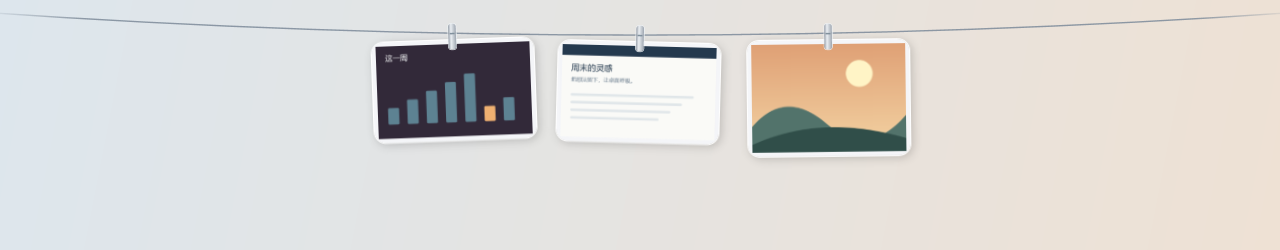
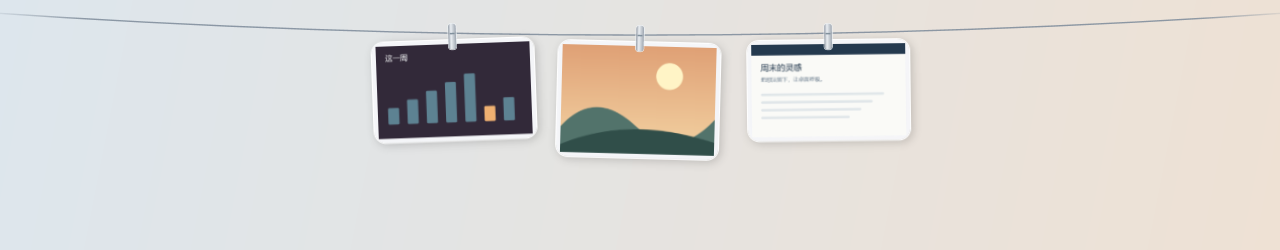
fix: insert new photos on the left and evict the rightmost

Changed region(s): [[0.4375, 0.168, 0.7188, 0.644]]

diff --git a/src/SelfTest.cs b/src/SelfTest.cs
@@ -102,26 +102,41 @@ namespace ShaiTu {
                 Check(!pixelStore.ImportImage(pixel24), "Equivalent Snipaste/clipboard pixels deduplicate across bitmap formats and DPI");
                 string original = Path.Combine(sandbox, "original.png"); WritePng(samples[1], original);
                 Check(store.ImportFile(original), "File import");
-                Photo p = store.Items.Last(); var data = LineWindow.DragData(p);
+                Photo p = store.Items.First(); var data = LineWindow.DragData(p);
                 Check(data.ContainsFileDropList() && data.GetFileDropList()[0] == p.File && data.ContainsImage(), "Drag payload contains file and full bitmap");
                 var loaded = new Store(store.Root);
-                Check(loaded.Items.Count == 2 && loaded.Items[1].Width == 600, "Snapshots restored after restart");
+                Check(loaded.Items.Count == 2 && loaded.Items[0].Width == 600, "Snapshots restored after restart");
+                Check(loaded.Items[0].Hash == Store.ImageHash(samples[1]) && loaded.Items[1].Hash == Store.ImageHash(samples[0]),
+                    "New photos enter at the left and push earlier photos right; the order survives restart");
                 Photo left = loaded.Items[0], right = loaded.Items[1];
                 Check(loaded.Swap(left, right) && loaded.Items[0] == right && loaded.Items[1] == left, "Drag reorder swaps two positions");
                 Check(Path.GetFileName(new Store(loaded.Root).Items[0].File) == Path.GetFileName(right.File), "Swapped order persists across restart");
                 Check(!loaded.Swap(right, right), "Dropping a photo onto itself changes nothing");
                 loaded.Swap(right, left);
-                loaded.Remove(loaded.Items.Last());
+                loaded.Remove(loaded.Items.First());
                 Check(File.Exists(original) && !File.Exists(p.File) && new Store(store.Root).Items.Count == 1, "Removing snapshot preserves original and persists");
                 loaded.Clear();
-                for (int i = 0; i < 10; i++) loaded.ImportImage(DrawSample(i + 3));
-                Check(loaded.Items.Count == 8 && Directory.GetFiles(loaded.Cache, "*.png").Length == 8, "Capacity evicts oldest snapshots and bounds disk cache");
+                var capacityPhotos = new List<Photo>();
+                for (int i = 0; i < 10; i++) { loaded.ImportImage(DrawSample(i + 3)); capacityPhotos.Add(loaded.Items[0]); }
+                Check(loaded.Items.Count == 8 && Directory.GetFiles(loaded.Cache, "*.png").Length == 8
+                    && loaded.Items.SequenceEqual(capacityPhotos.Skip(2).Reverse())
+                    && !File.Exists(capacityPhotos[0].File) && !File.Exists(capacityPhotos[1].File)
+                    && capacityPhotos.Skip(2).All(photo => File.Exists(photo.File))
+                    && new Store(loaded.Root).Items.Select(photo => photo.File).SequenceEqual(loaded.Items.Select(photo => photo.File)),
+                    "Overflow deletes the rightmost oldest photos, retains eight newest in reverse arrival order and persists that order");
+                Photo reorderedRight = loaded.Items[0], retainedOldest = loaded.Items.Last();
+                loaded.Swap(reorderedRight, retainedOldest); loaded.ImportImage(DrawSample(97));
+                Check(!File.Exists(reorderedRight.File) && File.Exists(retainedOldest.File) && loaded.Items[1] == retainedOldest
+                    && loaded.Items.Count == 8 && Directory.GetFiles(loaded.Cache, "*.png").Length == 8,
+                    "After a manual swap, overflow deletes the current rightmost photo and preserves the chosen left-side photo");
                 string first = loaded.Items[0].File;
                 using (var lockFile = new FileStream(Path.Combine(loaded.Root, "settings.json"), FileMode.Open, FileAccess.Read, FileShare.None)) {
                     bool failed = false; try { loaded.Remove(loaded.Items[0]); } catch (IOException) { failed = true; }
                     Check(failed && loaded.Items.Count == 8 && File.Exists(first), "Failed persistence rolls back removal");
+                    var importBefore = loaded.Items.ToArray();
                     failed = false; try { loaded.ImportImage(DrawSample(98)); } catch (IOException) { failed = true; }
-                    Check(failed && loaded.Items.Count == 8 && Directory.GetFiles(loaded.Cache, "*.png").Length == 8, "Failed persistence rolls back import and removes orphan");
+                    Check(failed && loaded.Items.SequenceEqual(importBefore) && importBefore.All(photo => File.Exists(photo.File))
+                        && Directory.GetFiles(loaded.Cache, "*.png").Length == 8, "Failed persistence restores order and the rightmost photo while removing the new orphan");
                 }
                 Check(!Store.IsOwnedName("..\\test.png") && !Store.IsOwnedName("photo.png") && Store.IsOwnedName(Guid.NewGuid().ToString("N") + ".png"), "Only owned GUID filenames are eligible for cleanup");
                 using (var lockFile = new FileStream(Path.Combine(loaded.Root, "settings.json"), FileMode.Open, FileAccess.Read, FileShare.None)) {

diff --git a/src/Program.cs b/src/Program.cs
@@ -10,7 +10,7 @@ using Microsoft.Win32;
 using Forms = System.Windows.Forms;
 
 [assembly: System.Reflection.AssemblyTitle("晒图 · ShaiTu")]
-[assembly: System.Reflection.AssemblyVersion("0.5.8.0")]
+[assembly: System.Reflection.AssemblyVersion("0.5.9.0")]
 
 namespace ShaiTu {
     public sealed class Program {
@@ -336,7 +336,7 @@ namespace ShaiTu {
             }));
             menu.Items.Add(Item("关于晒图", delegate {
                 line.Busy = true;
-                MessageBox.Show("晒图 0.5.8\n\n个人截图暂存工具", "关于晒图");
+                MessageBox.Show("晒图 0.5.9\n\n个人截图暂存工具", "关于晒图");
                 line.Busy = false;
             }));
             menu.Items.Add(new Forms.ToolStripSeparator()); menu.Items.Add(Item("清理截图并退出", ExitFromTray));

diff --git a/src/Store.cs b/src/Store.cs
@@ -111,8 +111,8 @@ namespace ShaiTu {
             try {
                 File.WriteAllBytes(path, bytes);
                 Photo photo = LoadPhoto(path); photo.Hash = hash;
-                Items.Add(photo);
-                while (Items.Count > Capacity) Items.RemoveAt(0);
+                Items.Insert(0, photo);
+                while (Items.Count > Capacity) Items.RemoveAt(Items.Count - 1);
                 Save();
             } catch {
                 Items.Clear(); Items.AddRange(previous); TryDelete(path); throw;

diff --git a/README.md b/README.md
@@ -4,105 +4,77 @@
 
 # 晒图 · ShaiTu
 
-把截图挂到桌面的晾衣绳上，随手复制、查看和拖动排序。支持 Snipaste 钉图联动，也可使用 Windows 截图。Snipaste 的桌面贴图同时保留，方便自由拖动做对比。
+把截图挂在桌面晾衣绳上，随手复制、查看和拖动排序。支持 Snipaste 钉图联动，也能使用 Windows 自带的截图工具。
 
-**Windows 10 / 11 · .NET Framework 4.8 · 当前版本 0.5.8**
+**Windows 10 / 11 · .NET Framework 4.8 · 便携版，无需安装**
 
 ![晒图界面：三张示例图片由夹子挂在桌面晾衣绳上](./assets/readme/interface.png)
 
-*程序实际渲染的界面，使用内置示例图片。*
+*程序实际渲染的界面，使用示例图片。*
 
-## 从第一张截图开始
+## 开始使用
 
-1. 从 [Releases 下载便携版 ZIP](https://github.com/weidaozhong/ShaiTu/releases/latest)，完整解压到固定文件夹，然后启动 `ShaiTu.exe`。保留同目录的 `ShaiTu.exe.config`，程序先在托盘运行。
-2. 启动 Snipaste，使用你已经设置好的截图快捷键。
-3. 完成截图或编辑后，选择**钉在桌面**。图片会复制到晾衣绳，保存成功后展开确认至少 5 秒。
+1. [下载最新便携版 ZIP](https://github.com/weidaozhong/ShaiTu/releases/latest)，完整解压到固定文件夹。
+2. 运行 `ShaiTu.exe`，保留同目录的 `ShaiTu.exe.config`。程序在任务栏托盘运行，启动时不弹出晾衣绳。
+3. 截一张图，或在托盘中选择“添加图片”。图片保存后，晾衣绳自动展开确认至少 5 秒。
 
-直接在 Snipaste 中复制图片不会自动上绳；先编辑再钉图，只接收编辑后的最终版本。托盘里的“Snipaste 截图”也调用 Snipaste。
+**使用 Snipaste：** 使用已经设置好的截图快捷键，完成截图或编辑后选择“钉在桌面”。晾衣绳只接收最终钉图，直接复制不上绳，编辑前的原图也不会额外加入。Snipaste 的桌面贴图同时保留，可自由拖动、缩放和对比。
 
-**没有 Snipaste：** 托盘中点击“Windows 截图”，选取区域后自动挂上绳并展开确认。此入口调用系统的 **Win + Shift + S**，无需开启长期剪贴板监听；仅接收本次 Windows 截图工具生成的图片。按 Esc 取消，未完成的接收在 2 分钟后结束。需要 Windows 自带的截图工具可用，且启用自动复制到剪贴板；关闭了自动复制时，在截图工具中点击复制即可接收。
+**使用 Windows 截图：** Snipaste 未运行时，托盘截图入口自动切为“Windows 截图”。点击后选取区域，结果自动上绳，无需开启长期剪贴板接收。需要系统截图工具可用并将结果复制到剪贴板；若关闭了自动复制，在截图工具中点击复制即可。Esc 取消，未完成的接收在 2 分钟后结束。
+
+Snipaste 启动后，托盘菜单切回它的截图入口，并读取当前快捷键设置。自动检测不到贴图目录时，可在托盘中选择 Snipaste 安装目录或 `history` 目录。
 
 ## 图片怎么用
 
 | 操作 | 结果 |
 | --- | --- |
-| 左键单击图片 | 复制图片，显示“已复制”提示 |
-| 右键单击图片 | 查看大图 |
+| 左键单击 | 复制图片，并显示“已复制” |
+| 右键单击 | 查看大图 |
 | Shift + 右键 | 打开更多操作菜单；左键点击菜单外关闭 |
 | 拖到另一张图片上 | 两张图片交换位置 |
-| 拖到挂绳区域外松手 | 取下图片并删除晒图的对应缓存 |
+| 拖出挂绳区域后松手 | 取下图片并清理对应缓存 |
 | 拖拽时按 Esc | 取消拖拽，图片保留 |
-| 上下拖动绳子 | 调整整排高度，松手后记住位置 |
-| 长按图片 | 用画图编辑晒图缓存 |
+| 上下拖动绳子 | 调整高度，松手后记住位置 |
+| 长按图片 | 用画图编辑 |
 | 菜单 → 另存为 | 保存一份需要长期保留的图片 |
 
-最多暂存 **8 张**，满了会淘汰最左边的一张。拖给其他应用后，或绳外松手处没有接收目标，同样会清理绳上的对应缓存。
+## 排列与清理
 
-## 什么时候展开和收起
+新图片从**左侧**挂入，原有图片向右移动。最多暂存 **8 张**，满了再加入时，清理**当前最右侧**的一张及其晒图缓存。
 
-- **没有图片：** 绳子、提示和右侧小把手全部隐藏。
-- **自动收起后：** 屏幕右侧的小把手随绳子高度定位；单击立即展开，悬停 0.3 秒展开。
-- **正在取用：** 鼠标停在图片、绳子及附近缓冲区域时保持显示；离开 1.2 秒再收起。拖拽、调高度和打开菜单时保持显示。
-- **主动展开：** 按快捷键或从托盘展开后持续显示，再次主动收起才隐藏。
+没有手动交换位置时，最右侧就是最早加入的图片；拖拽排序会改变清理顺序。
 
-默认展开 / 收起键是 **Ctrl + Alt + T**。托盘 → **设置展开 / 收起快捷键**可改成单键或组合键，不会更改 Snipaste 的截图键。
+拖给其他应用后，或在绳外没有接收目标的区域松手，同样会清理绳上的对应缓存。清空晾衣绳或从托盘退出会清理全部暂存图片；强制结束进程不会执行退出清理。
 
-## 桌面贴图与晾衣绳各自保留
+这些操作只清理晒图缓存，保留 Snipaste 桌面贴图、原文件和你另存的图片。需要长期保留的图片，请使用“另存为”。
 
-Snipaste 桌面贴图可继续自由拖动、缩放和对比；晾衣绳保存的是独立副本。
+## 展开与收起
 
-| 操作 | 晾衣绳缓存 |
-| --- | --- |
-| 从绳上取下一张 | 删除对应图片 |
-| 清空晾衣绳 / 从托盘退出 | 清空 |
-| 强制结束晒图进程 | 不执行退出清理 |
+- **没有图片：** 绳子和右侧小把手都隐藏。
+- **自动收起后：** 单击屏幕右侧小把手即可展开，悬停 0.3 秒也可展开。
+- **取用图片时：** 鼠标留在图片、绳子及附近缓冲区域内保持显示，离开 1.2 秒后收起。拖拽、调高度和打开菜单时保持显示。
+- **主动展开后：** 通过快捷键或托盘展开会持续显示，再次主动收起才隐藏。
 
-上述操作均保留 Snipaste 贴图、原文件以及你另存的图片。Snipaste 的贴图和原文件由 Snipaste 自己管理。
-
-已取下的图片，在当前连接期间不会因为同一贴图重复写入相同像素而重新挂回绳上。
+默认展开 / 收起键是 **Ctrl + Alt + T**，可在托盘中改为单键或组合键。它与截图快捷键分别设置。
 
 ## 托盘设置
 
-- **开机启动：** 登录 Windows 后延迟 15 秒运行，先保持隐藏。手动打开不延迟；关闭开关即可取消自启动。
-- **添加图片：** 手动把已有图片挂上绳。
-- **接收剪贴板图片 / 监听文件夹：** 可选入口，默认以 Snipaste 钉图为主。Snipaste 的直接复制动作仍不自动接收。
-- **选择 Snipaste 目录：** 自动检测失败时，选择安装目录或 `history` 目录。
+- **开机启动：** 登录 Windows 后延迟 15 秒运行，先保持隐藏。移动程序后，手动运行一次以更新启动路径。
+- **接收剪贴板图片：** 默认关闭，可开启以接收其他应用复制的图片；Snipaste 的直接复制仍不上绳。
+- **监听文件夹：** 自动接收所选文件夹中新生成的图片。
+- **清空晾衣绳 / 清理截图并退出：** 清理暂存图片，保留高度、快捷键等设置。
 
-自动接收依赖 Snipaste 写出的贴图 PNG 文件。程序只读取最终贴图，不导入 `.sp1` 截图历史，也不会关闭或隐藏 Snipaste 贴图。
-
-## 换一台电脑使用
-
-便携包不包含原电脑的个人设置、Snipaste 配置和截图缓存。新电脑首次运行使用默认设置；Snipaste 的截图快捷键由那台电脑的 Snipaste 自己管理，晒图只读取并显示，不修改它。
-
-启动 Snipaste 后，晒图会从正在运行的程序位置和常见用户目录自动检测 `history`。特殊安装位置或自定义数据目录检测失败时，在托盘中选择 Snipaste 安装目录或 `history`，也可恢复自动检测。
-
-没有 Snipaste 或尚未启动它时，托盘截图入口自动切为“Windows 截图”。Snipaste 启动后，再次打开托盘菜单会切回 Snipaste，使用当地设置好的截图键，不修改配置。
-
-还可通过“添加图片”导入文件，开启“接收剪贴板图片”接收其他应用复制的图片，或配置监听文件夹。复制、预览、排序、另存、自启动和缓存清理均不依赖 Snipaste。Windows 截图后备入口使用系统组件；如果该组件被卸载或快捷键被其他工具替换，可继续手动添加图片。
+暂存图片和设置位于 `%LOCALAPPDATA%\ShaiTu`。没有截图工具时，仍可使用“添加图片”、剪贴板接收或监听文件夹，正常复制、查看、排序和另存。
 
 <details>
-<summary><strong>缓存位置与自启动细节</strong></summary>
+<summary><strong>从源码构建</strong></summary>
 
-截图暂存与设置位于 `%LOCALAPPDATA%\ShaiTu`。`captures.log` 记录新增图片的来源、尺寸和缓存文件名，随清空或退出删除。
-
-自启动使用当前用户启动文件夹中的 `ShaiTu.lnk`。旧版已经开启的注册表启动项会迁移，避免重复启动；重新开启开关会修复 exe 路径。开关也识别 Windows 的禁用状态。
-
-移动程序后，手动运行一次以更新已启用的自启动路径。程序已在运行时，重复的自动启动会静默退出。
-
-</details>
-
-## 从源码构建
-
-项目使用 C#、WPF 和 .NET Framework 4.8。`src` 为源码，`dist` 为当前程序，`build.ps1` 为构建脚本。
-
-源码仓库不包含 exe；本地构建后会生成 `dist/ShaiTu.exe`。
+项目使用 C#、WPF 和 .NET Framework 4.8。源码仓库不包含 exe，运行以下命令会生成 `dist/ShaiTu.exe`：
 
 ```powershell
 powershell -NoProfile -ExecutionPolicy Bypass -File .\build.ps1
 ```
 
-加 `-Test` 可运行自动检查。
+加 `-Test` 可运行自动检查。使用 `.\scripts\package-release.ps1 -Version 0.5.9` 打包便携版并生成 SHA256 校验文件。推送版本标签会触发 [Windows 自动构建与发布](https://github.com/weidaozhong/ShaiTu/actions)。
 
-`.\scripts\package-release.ps1 -Version 0.5.8` 将构建结果打包为便携版 ZIP，并生成 SHA256 校验文件。推送 `v*` 标签会触发 [Windows 构建及发布](https://github.com/weidaozhong/ShaiTu/actions)，也可用现有标签手动触发。
-
-[查看验证记录](./src/VALIDATION.md)：当前 101 项自动检查及原生启动检查。真实启动快捷方式已验证；下一次 Windows 登录触发、Windows 截图交互、实际跨应用拖放与多屏混合 DPI 仍需使用验证。
+</details>

diff --git a/src/VALIDATION.md b/src/VALIDATION.md
@@ -1,5 +1,7 @@
 # 验证记录
 
+2026-10-11，0.5.9。103 项自动检查通过。新增图片在列表左侧插入，容量超限清理当前最右侧图片；覆盖无调序时最早图淘汰、调序后按当前位置淘汰、顺序重启持久化，以及保存失败时保留原有顺序和最右侧缓存。加载既有设置保留用户已保存的排列，不反转历史位置。
+
 首次发布检查补充：自启动改用原生 Unicode Shell 接口，保留中文、空格路径和路径迁移测试。Windows 截图后备入口新增 12 项检查，覆盖请求之外不接收、忽略旧剪贴板和晒图自身复制、排除 Snipaste 及无关来源、非图片不消费请求、保存失败可重试、仅成功接收一次、取消、超时、启动失败回滚以及 32/64 位输入结构布局，共 101 项。
 
 Windows 截图后备入口通过系统 Win + Shift + S 调用截图工具，并临时接收 Windows 截图进程产生的图片，不修改永久剪贴板开关。自动检查使用隔离样例，不向用户桌面发送截图按键、不读写用户剪贴板。Windows 10/11 的实际选区及截图工具配置差异仍需交互验证；系统工具缺失或被其他程序替换时，手动添加图片仍可用。
